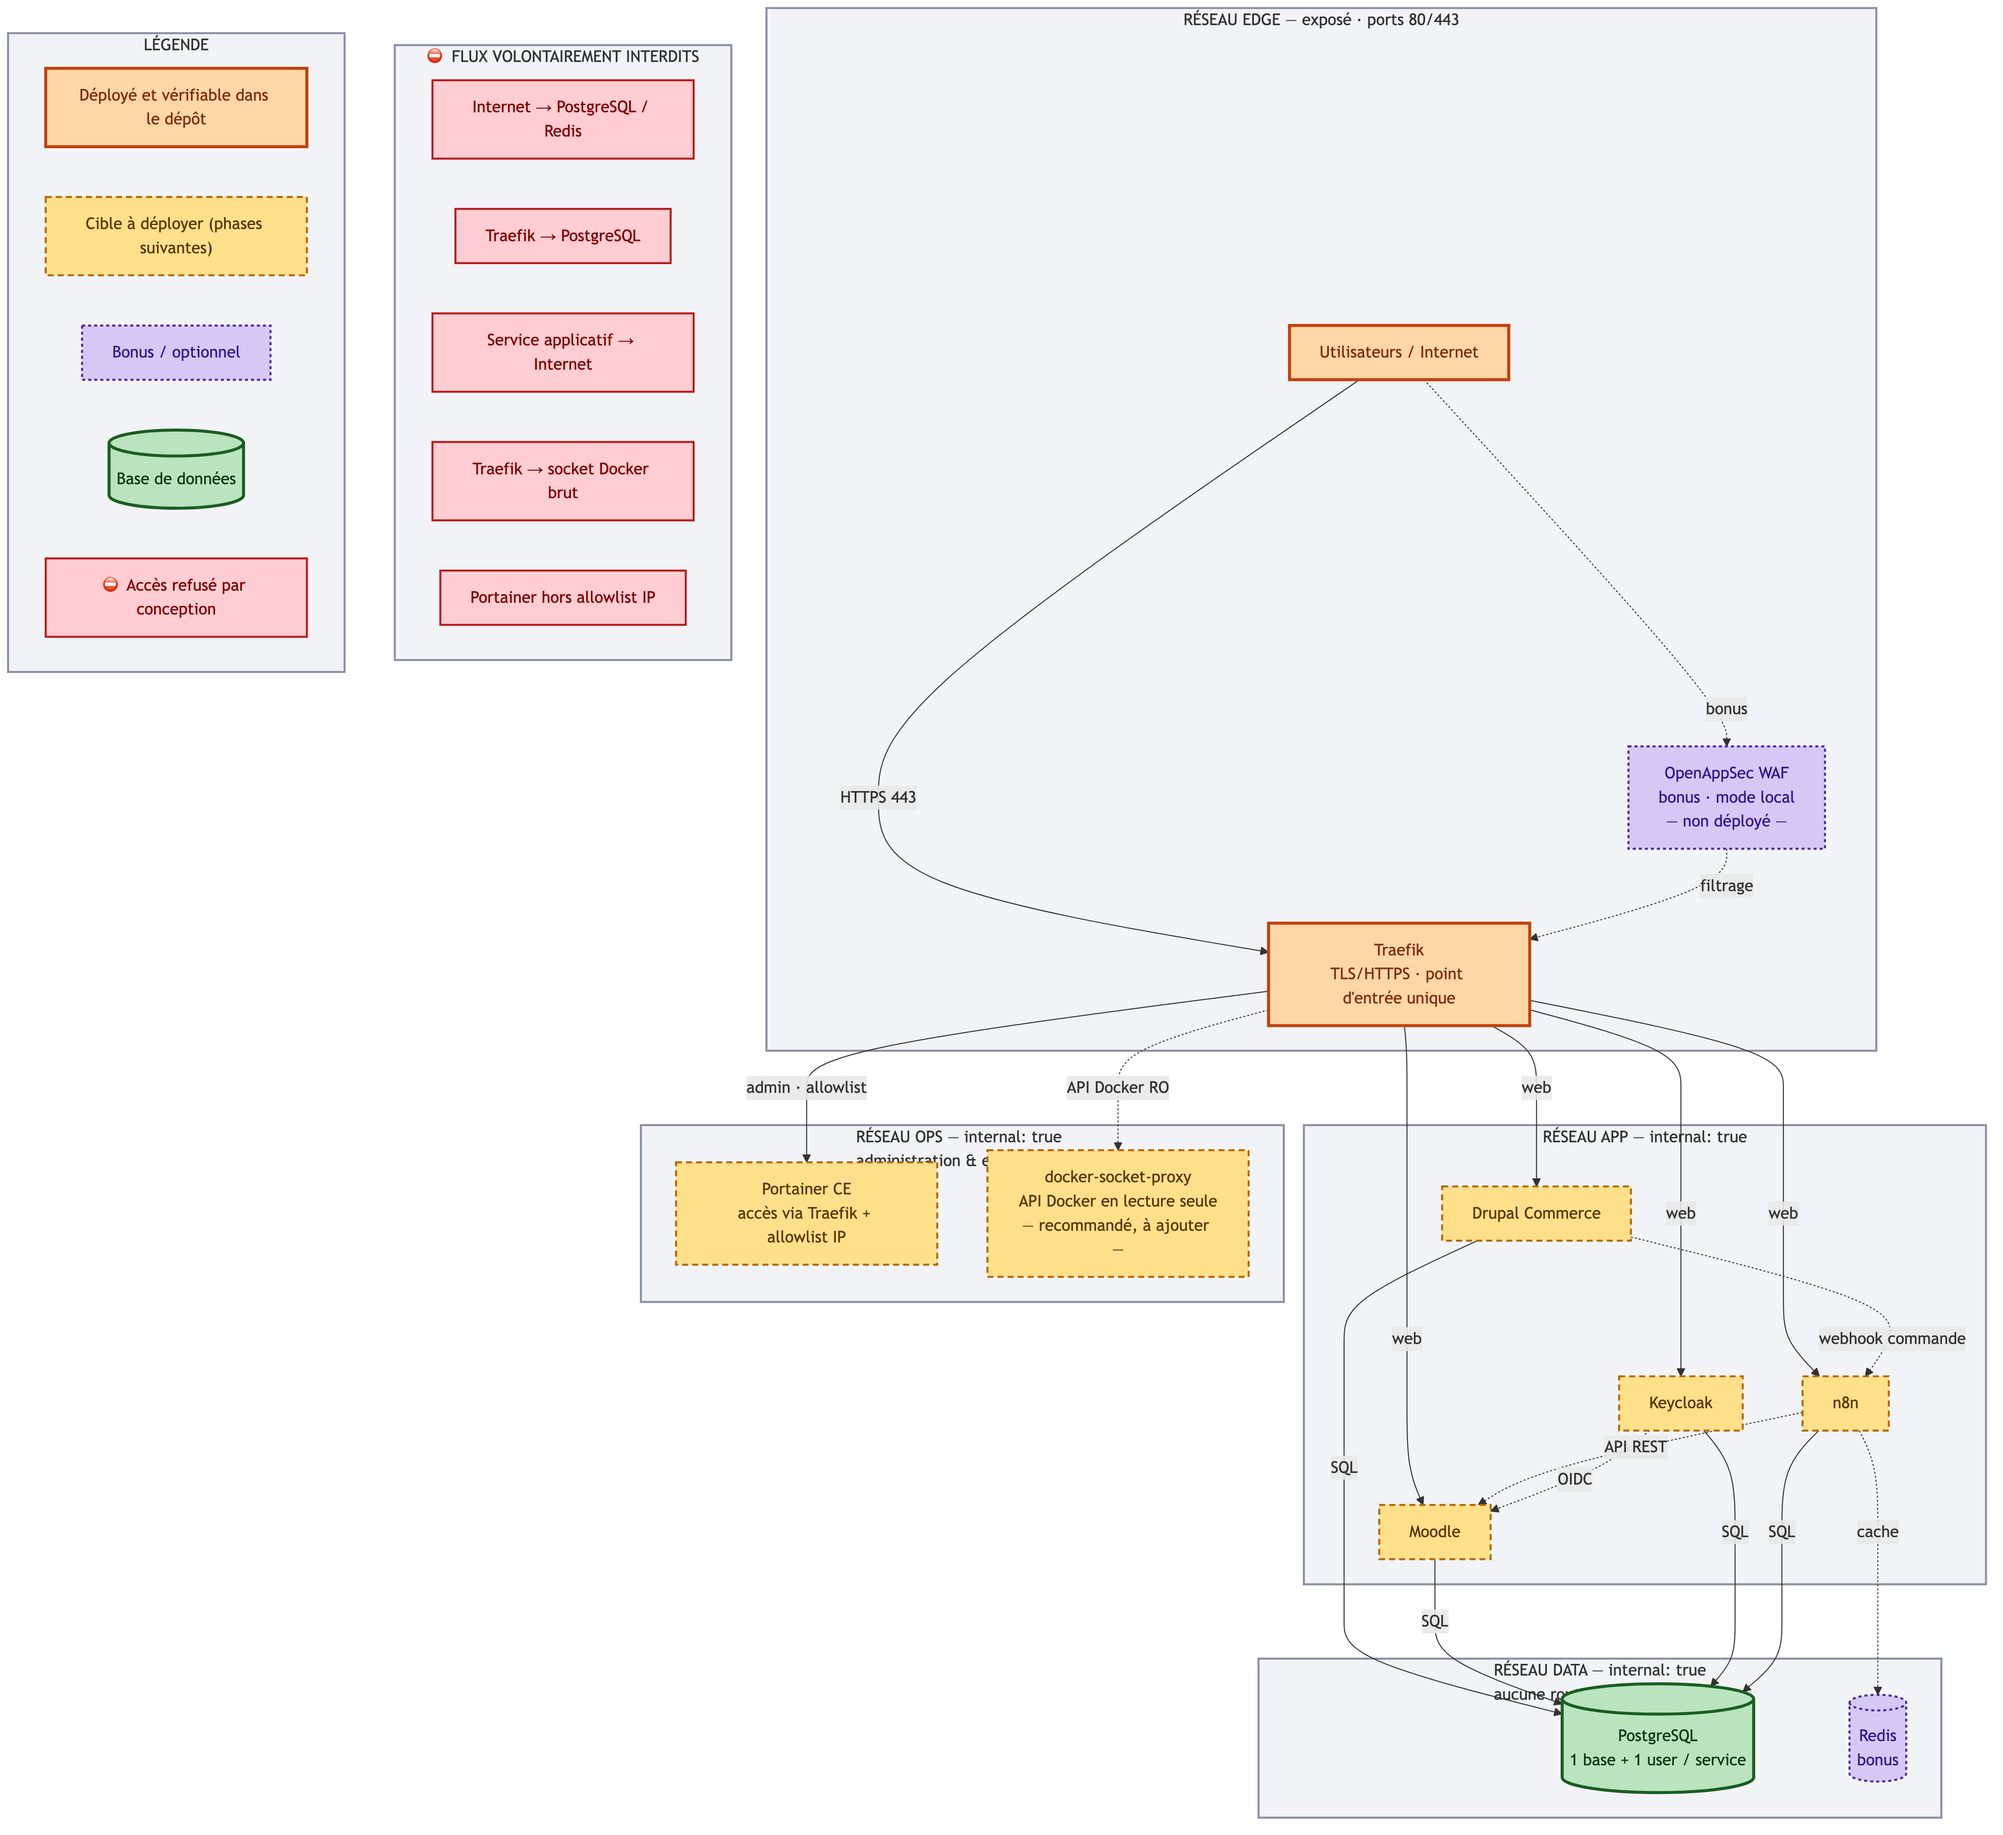
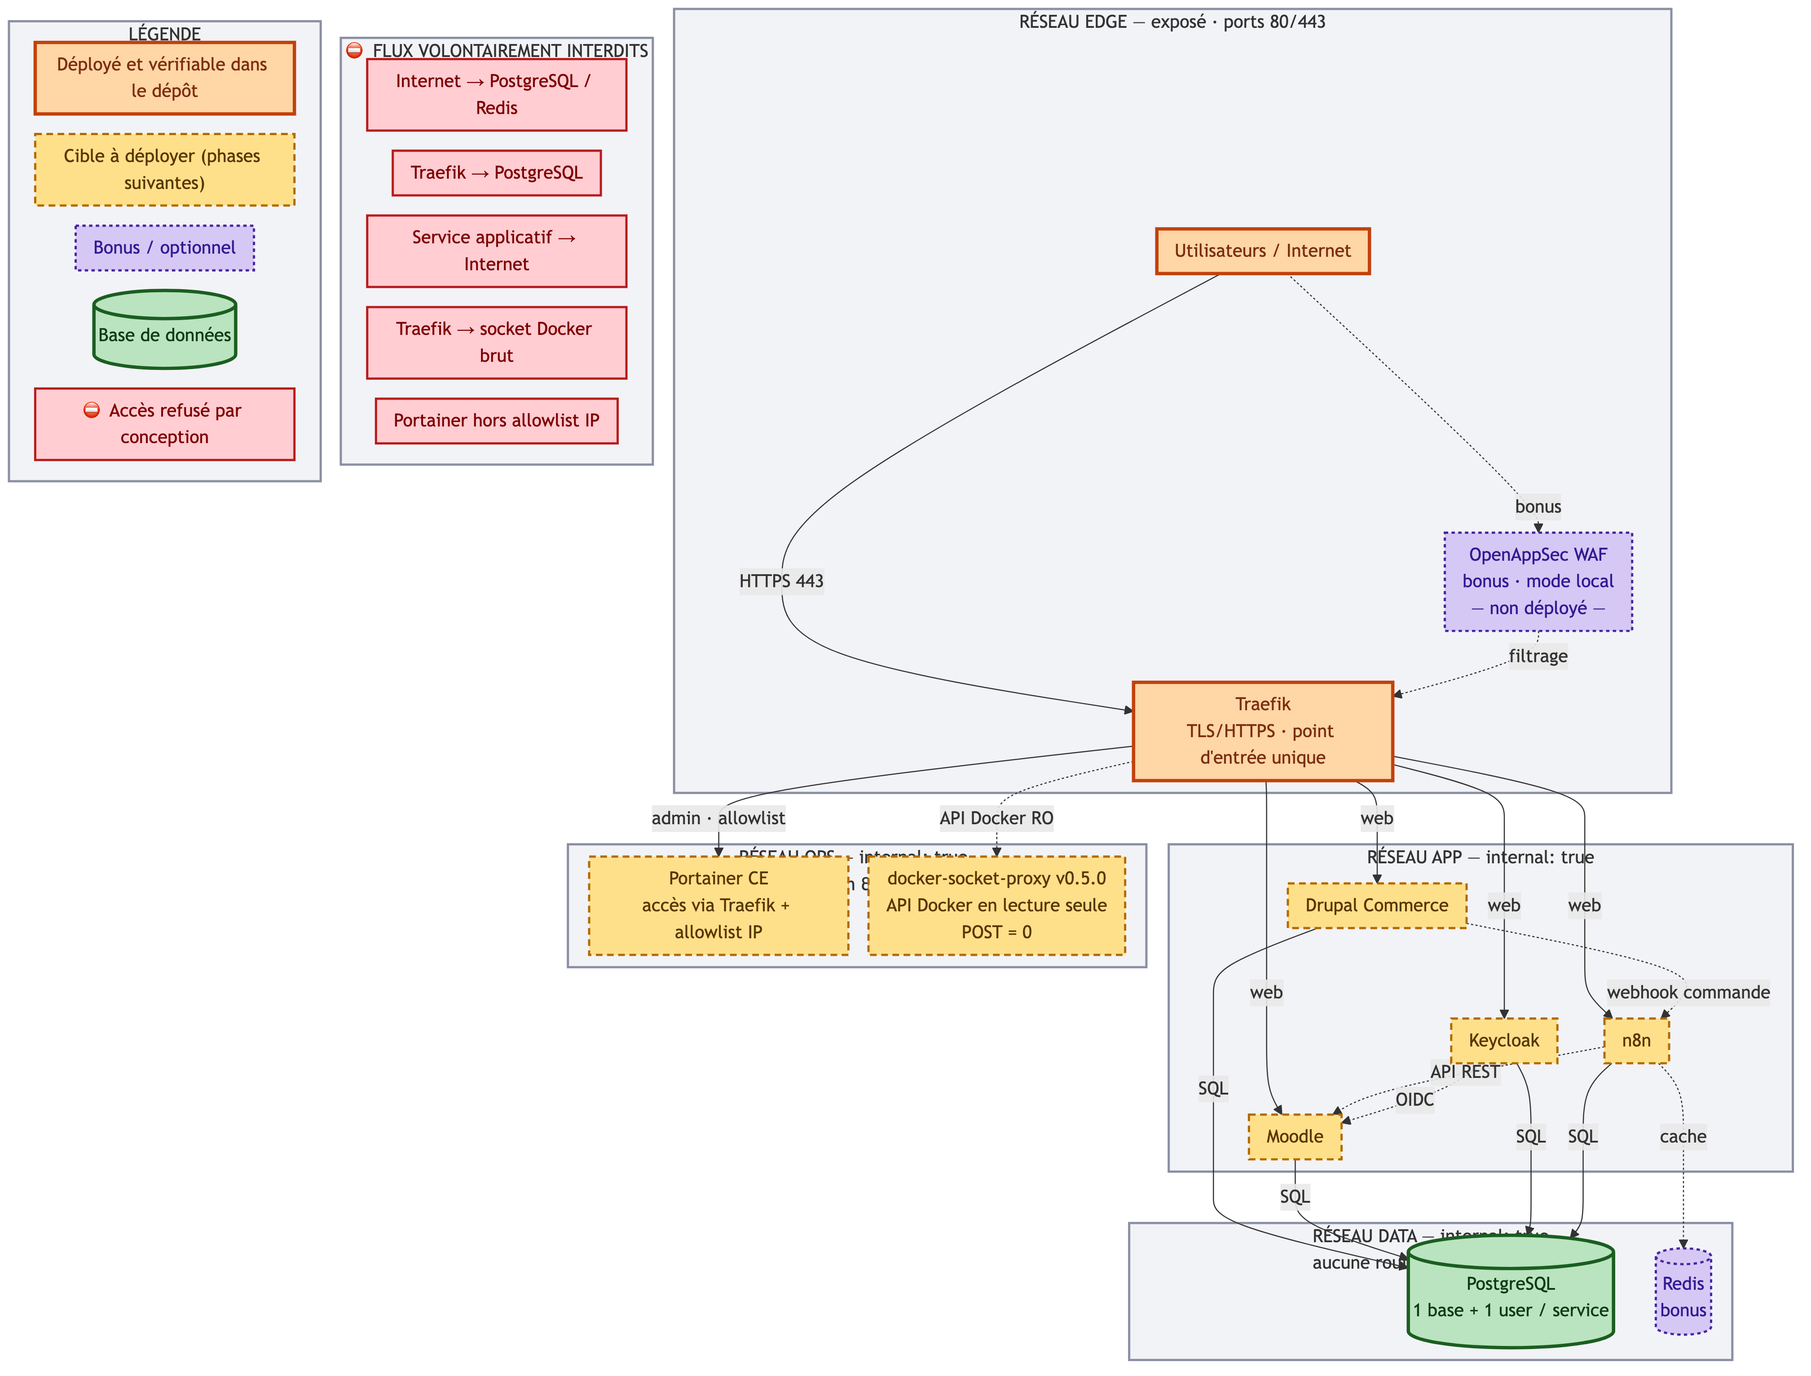
docs: met a jour README et schemas apres durcissement
- README : etat d'avancement reel, gVisor annonce comme non active
- schema 02 : socket-proxy implemente (POST=0)
- schema 05 : couches 0 et 3 mises a jour

diff --git a/README.md b/README.md
@@ -5,41 +5,66 @@ Travail de session (Polytechnique Montréal, CR465 Groupe D). Architecture multi
 > **Référence** : l'énoncé et les grilles fournis par l'enseignant sont dans `md/`.
 > **Notre documentation** : technique dans `docs/`, livrable GitBook dans `gitbook/`.
 
+## État d'avancement
+
+| Couche | État |
+|---|---|
+| VM as Code (`cloud-init`) | ✅ opérationnelle (SSH durci, UFW, fail2ban, mises à jour auto) |
+| Reverse proxy (Traefik) | ✅ opérationnel — HTTPS, redirection, journal JSON |
+| Segmentation réseau | ✅ 4 réseaux, `app` et `data` en `internal: true` |
+| Durcissement des conteneurs | ✅ `cap_drop: ALL`, non-root, `read_only`, limites, healthcheck |
+| socket-proxy | ✅ API Docker en lecture seule |
+| Applications métier (Drupal, Moodle, Keycloak, n8n, PostgreSQL, Portainer) | 🔶 à déployer (phase 4) |
+| Scan d'images (Trivy) | 🔶 script fourni (`scripts/scan-images.sh`), rapports à produire |
+
 ## Pile technique
-Traefik · Drupal Commerce · Moodle · Keycloak · n8n · PostgreSQL
-· Portainer CE · (bonus : Redis, Grafana/Loki, OpenAppSec) · durcissement gVisor.
+
+**Déployé** : Traefik · socket-proxy · service de test `whoami`
+**Cible** : Drupal Commerce · Moodle · Keycloak · n8n · PostgreSQL · Portainer CE
+**Bonus (non engagés)** : Redis · Grafana/Loki · OpenAppSec (WAF, mode local)
+
+> Le durcissement gVisor est **étudié mais non activé** : le script d'installation existe
+> (`scripts/install-gvisor.sh`), mais aucun `runtime: runsc` n'est déclaré dans le compose.
+> Ne pas le présenter comme actif.
 
 ## Prérequis (poste de dev)
+
 - Git, Multipass, un éditeur. **Docker est installé _dans la VM_** par cloud-init.
+- Pour scanner les images : Docker en local (Trivy tourne en conteneur).
 
 ## Démarrage rapide
+
 ```bash
 # 1. Lancer la VM (VM as Code)
-multipass launch 24.04 --name plateforme --cpus 4 --memory 8G --disk 60G \
-  --cloud-init cloud-init/user-data.yaml
+./scripts/launch-vm.sh                 # ou : multipass launch 24.04 --cloud-init cloud-init/user-data.yaml
 
 # 2. Configurer les secrets (jamais commités)
 cp compose/.env.example compose/.env   # puis remplir compose/.env
 
 # 3. Déployer la stack
-docker compose -f compose/docker-compose.yml up -d
+./scripts/deploy-stack.sh              # ou : docker compose -f compose/docker-compose.yml up -d
+
+# 4. Vérifier le routage HTTPS
+./scripts/test-routing.sh
+
+# 5. Scanner les images (local, hors-ligne)
+./scripts/scan-images.sh
 ```
 
 ## Structure du dépôt
+
 | Dossier | Contenu |
 |---|---|
 | `cloud-init/` | VM as Code (user-data.yaml) |
 | `compose/` | services et configurations Docker Compose |
-| `docs/` | architecture, sécurité, opérations, tests |
+| `docs/architecture/` | schémas (architecture, segmentation, séquences, défense en profondeur) |
+| `docs/security/` | sécurité des images, durcissement, rapports de scan |
+| `docs/operations/` | procédures et incidents |
 | `gitbook/` | documentation GitBook (livrable) |
 | `md/` | énoncé et grilles de référence (fournis) |
-| `scripts/` | scripts de démarrage et de validation |
+| `scripts/` | lancement, déploiement, tests, scan d'images |
 | `media/` | captures et ressources de la vidéo |
 
 ## Équipe et contributions
-Voir `md/Contributions.md`.
 
-| Membre | Rôle | Branche |
-|---|---|---|
-| (vous) | Coordination + Architecture | Projet-CR465-D-Gaius |
-| … | … | … |
+Voir [`md/Contributions.md`](md/Contributions.md).

diff --git a/docs/architecture/05-defense-en-profondeur.md b/docs/architecture/05-defense-en-profondeur.md
@@ -11,10 +11,10 @@ réussir sept fois de suite.
 flowchart TB
     MENACE["Menace : accès non autorisé · service compromis · fuite de données"]
 
-    C0["COUCHE 0 — BUILD (shift-left)<br/>images épinglées · scan Trivy — absent · aucun secret versionné"]
+    C0["COUCHE 0 — BUILD (shift-left)<br/>images épinglées · scan Trivy : script fourni · aucun secret versionné"]
     C1["COUCHE 1 — HÔTE (cloud-init)<br/>UFW 22/80/443 · SSH par clé, root off · fail2ban · unattended-upgrades"]
     C2["COUCHE 2 — PÉRIMÈTRE (edge)<br/>Traefik TLS ≥ 1.2 · exposedByDefault=false · HSTS · WAF bonus non déployé"]
-    C3["COUCHE 3 — APPLICATIF (app · internal)<br/>non-root · no-new-privileges · cap_drop ALL · limites · healthchecks"]
+    C3["COUCHE 3 — APPLICATIF (app · internal)<br/>non-root · no-new-privileges · cap_drop ALL · read_only · limites · healthcheck"]
     C4["COUCHE 4 — DONNÉES (data · internal)<br/>PostgreSQL jamais exposé · 1 base + 1 user par service · volumes nommés"]
     C5["COUCHE 5 — IDENTITÉ<br/>Keycloak OIDC · rôles etudiant / enseignant · MFA possible"]
     C6["COUCHE 6 — OBSERVABILITÉ<br/>Portainer CE · access log JSON · Loki / Grafana — bonus"]
@@ -53,10 +53,10 @@ flowchart TB
 
 | Couche | Contrôles | État vérifié |
 |---|---|---|
-| 0 — BUILD | Images épinglées, scan local, aucun secret versionné | Scan **absent** |
+| 0 — BUILD | Images épinglées, scan local, aucun secret versionné | **Script fourni**, rapport à produire |
 | 1 — HÔTE | UFW 22/80/443, SSH par clé, root off, fail2ban, unattended-upgrades, sysctl, logs Docker bornés | **Déployé** (cloud-init) |
 | 2 — PÉRIMÈTRE | Traefik TLS ≥ 1.2, `exposedByDefault=false`, HSTS, WAF bonus | **Partiel** (WAF absent) |
-| 3 — APPLICATIF | non-root, `no-new-privileges`, `cap_drop: ALL`, limites, healthchecks | **Partiel** (`cap_drop` et limites absents) |
+| 3 — APPLICATIF | non-root, `no-new-privileges`, `cap_drop: ALL`, `read_only`, limites, healthcheck | **Appliqué** dans le compose |
 | 4 — DONNÉES | PostgreSQL jamais exposé, 1 base + 1 user par service | Cible |
 | 5 — IDENTITÉ | Keycloak OIDC, rôles, MFA possible | Cible (non configuré) |
 | 6 — OBSERVABILITÉ | Portainer, access log JSON, Loki/Grafana | Cible (absent) |
@@ -64,5 +64,7 @@ flowchart TB
 ## Risque résiduel à documenter
 
 - L'utilisateur `adminops` appartient au groupe `docker` : sur l'hôte, cela équivaut à **root**.
-- Le socket Docker est aujourd'hui monté en direct dans Traefik : le mode `:ro` **n'empêche pas**
-  les écritures via l'API. Correctif : `docker-socket-proxy` en lecture seule.
+- Le socket Docker n'est **plus** monté dans Traefik : il passe par `docker-socket-proxy`
+  en lecture seule (`POST: 0`), sur un réseau `socket` isolé.
+- `whoami` n'a pas de healthcheck : image `scratch` sans binaire interne. Le healthcheck de
+  Traefik et `scripts/test-routing.sh` couvrent la vérification.

diff --git a/docs/architecture/02-segmentation-reseau.md b/docs/architecture/02-segmentation-reseau.md
@@ -24,7 +24,7 @@ flowchart TB
 
     subgraph OPS["RÉSEAU OPS — internal: true<br/>administration & exploitation"]
         PORTAINER["Portainer CE<br/>accès via Traefik + allowlist IP"]
-        SOCKP["docker-socket-proxy<br/>API Docker en lecture seule<br/>— recommandé, à ajouter —"]
+        SOCKP["docker-socket-proxy v0.5.0<br/>API Docker en lecture seule<br/>POST = 0"]
     end
 
     subgraph DATA["RÉSEAU DATA — internal: true<br/>aucune route vers l'extérieur"]
@@ -109,8 +109,15 @@ flowchart TB
 4. Traefik → socket Docker brut (passage obligé par le socket-proxy, en lecture seule)
 5. Portainer hors de la liste d'IP autorisées
 
-## Décision à documenter
+## État d'implémentation (mis à jour)
 
-`app` est en `internal: true` : **n8n ne peut donc pas sortir sur Internet**. C'est acceptable ici
-(paiement simulé, tous les services sont locaux). Si un appel sortant devenait nécessaire, créer un
-réseau `egress` dédié à n8n et le justifier par écrit.
+| Élément | État |
+|---|---|
+| `app` en `internal: true` | ✅ appliqué dans `compose/docker-compose.yml` |
+| `data` en `internal: true` | ✅ appliqué |
+| Réseau `socket` + `docker-socket-proxy` (`POST: 0`) | ✅ appliqué |
+| Portainer restreint par IP | 🔶 à faire au déploiement de Portainer |
+
+**Conséquence à assumer** : `app` interne signifie que **n8n ne peut pas sortir sur Internet**.
+C'est acceptable ici (paiement simulé, tous les services sont locaux). Si un appel sortant devenait
+nécessaire, créer un réseau `egress` dédié à n8n et le justifier par écrit.
